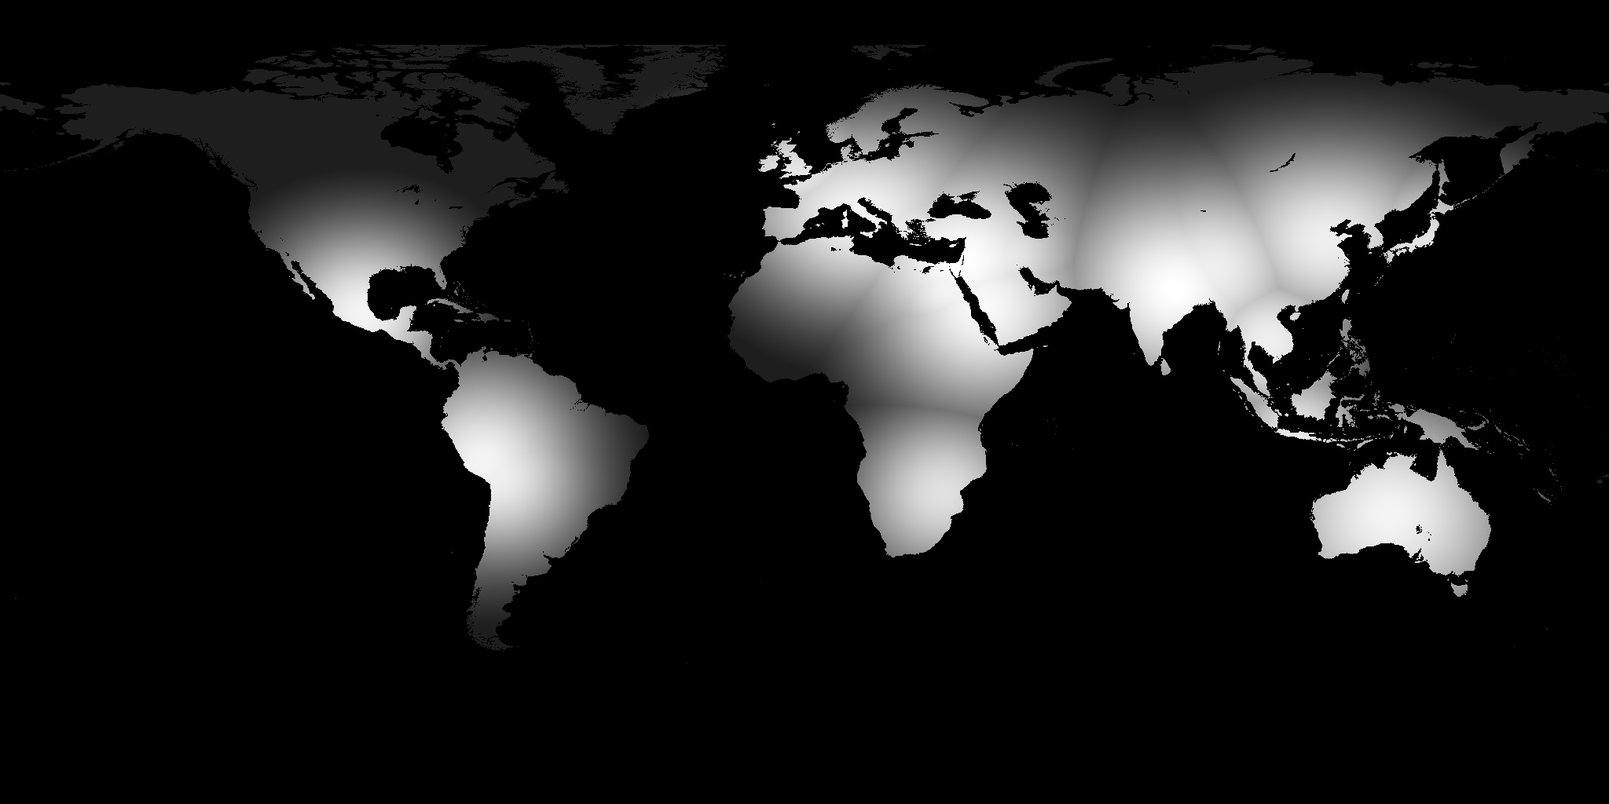
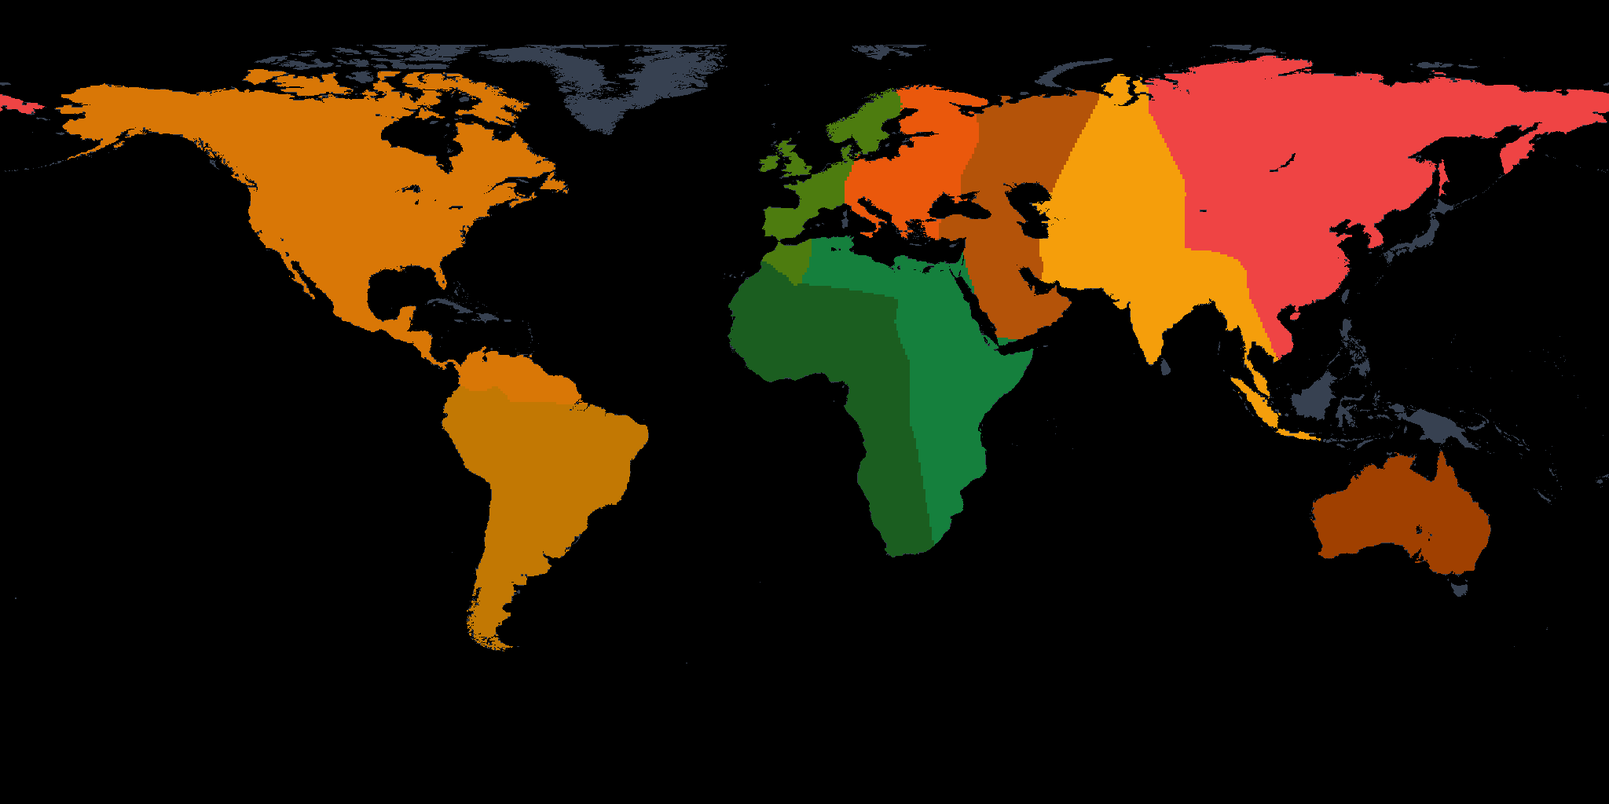
Implement navigable river corridors and authentic discrete rituals tensor with orographic propagation

Changed region(s): [[0.4375, 0.0312, 1.0, 0.7188], [0.0, 0.0312, 0.4688, 0.8125]]

diff --git a/src/main/java/org/ether/society/data/HistoricalMapGenerator.java b/src/main/java/org/ether/society/data/HistoricalMapGenerator.java
@@ -2109,6 +2109,15 @@ public class HistoricalMapGenerator {
         0x9B59B6  // Clade 5: Tropical Forest & Bamboo Bands (#9B59B6)
     };
 
+    private static final int[] COLORS_RITUALS_100K = {
+        0x10B981, // Clade 0: Sapiens Pan-African Symbolic Ochre & Shell Ornamentation (#10B981)
+        0xF59E0B, // Clade 1: Pioneer Coastal Symbolic Caches (#F59E0B)
+        0x3B82F6, // Clade 2: Neanderthal Intentional Burials & Raptor Claw Cults (#3B82F6)
+        0x2563EB, // Clade 3: Shanidar Flower Burial Tradition (#2563EB)
+        0xD97706, // Clade 4: Denisovan Altai Chloritolite Jewelry & Bone Carving (#D97706)
+        0x8B5CF6  // Clade 5: Archaic Asian Megafauna & Ochre Traditions (#8B5CF6)
+    };
+
     public static int blendCladeRgb(double[] w, int[] cladeColors, double occWeight) {
         if (w == null || occWeight <= 0.001) return 0x000000;
         double r = 0.0, g = 0.0, b = 0.0;
@@ -2746,109 +2755,146 @@ public class HistoricalMapGenerator {
             }
         }
 
-        List<double[]> ritualCenters = new ArrayList<>();
+        // 2. Handle -100,000 BP paleolithic tier via hominid clade weights
         if (year <= -70000L) {
-            // Handled separately below via Paleolithic traits
-        } else if (year <= -10500L) {
-            // -10,900 BP: Natufian mortars/skulls, Magdalenian cave sanctuaries, Clovis ochre caches
-            ritualCenters.add(new double[]{35.58, 33.08, 210.0, 6.0}); // Ain Mallaha Natufian burials
-            ritualCenters.add(new double[]{35.22, 32.92, 195.0, 6.0}); // Hayonim Cave
-            ritualCenters.add(new double[]{1.0, 45.0, 190.0, 8.0});    // Lascaux / Laugerie late sanctuary
-            ritualCenters.add(new double[]{-4.5, 43.4, 185.0, 8.0});   // Altamira Late Magdalenian
-            ritualCenters.add(new double[]{-103.3, 34.3, 160.0, 10.0});// Clovis Anzick / Blackwater red ochre caches
-            ritualCenters.add(new double[]{-73.2, -41.5, 150.0, 8.0}); // Monte Verde hearths
-        } else if (year <= -9000L) {
-            // -10,000 BP: Göbekli Tepe & Karahan Tepe T-shaped pillar megalithic sanctuaries
-            ritualCenters.add(new double[]{38.92, 37.22, 255.0, 8.0}); // Göbekli Tepe Megalithic Sanctuary Core
-            ritualCenters.add(new double[]{39.50, 37.05, 240.0, 8.0}); // Karahan Tepe
-            ritualCenters.add(new double[]{35.44, 31.87, 220.0, 7.0}); // Jericho Plastered Skull Sanctuary
-            ritualCenters.add(new double[]{38.20, 36.40, 210.0, 7.0}); // Jerf el Ahmar Communal Rotunda
-            ritualCenters.add(new double[]{22.0, 44.5, 200.0, 8.0});   // Lepenski Vir Fish-God Shrines
-            ritualCenters.add(new double[]{113.6, 34.4, 180.0, 10.0}); // Peiligang ancestral burials
-        } else if (year <= -7000L) {
-            // -8,000 BP: Çatalhöyük Bull Shrines, Nabta Playa Megalithic Calendar, Jiahu Flutes
-            ritualCenters.add(new double[]{32.83, 37.67, 255.0, 9.0}); // Çatalhöyük Bucrania & Goddess Shrines
-            ritualCenters.add(new double[]{30.58, 22.53, 245.0, 9.0}); // Nabta Playa Megalithic Astronomical Stone Circle
-            ritualCenters.add(new double[]{113.6, 33.6, 230.0, 9.0});  // Jiahu Sacred Crane Bone Flutes & Burials
-            ritualCenters.add(new double[]{35.95, 31.98, 220.0, 7.0}); // Ain Ghazal Plaster Statues
-            ritualCenters.add(new double[]{22.8, 39.3, 210.0, 8.0});   // Sesklo Goddess Figurines
-            ritualCenters.add(new double[]{68.05, 29.28, 205.0, 8.0}); // Mehrgarh Terracotta Figurines
-        } else if (year <= -4500L) {
-            // -6,000 BP: Eridu Temple VII, Vinča Figurines, Carnac Megalithic Alignments
-            ritualCenters.add(new double[]{45.99, 30.82, 255.0, 10.0});// Eridu Enki Temple / Proto-Ziggurat
-            ritualCenters.add(new double[]{20.62, 44.76, 240.0, 9.0}); // Vinča Anthropomorphic Cult Statues
-            ritualCenters.add(new double[]{-3.00, 47.60, 245.0, 9.0}); // Carnac Megalithic Alignments & Bougon Tumulus
-            ritualCenters.add(new double[]{109.06, 34.27, 235.0, 9.0});// Yangshao Banpo Mortuary Complexes
-            ritualCenters.add(new double[]{119.50, 41.30, 240.0, 8.0});// Hongshan Niuheliang Goddess Temple & Jade Altars
-            ritualCenters.add(new double[]{31.37, 26.99, 220.0, 8.0}); // Badari Cosmetic Palettes & Burials
-        } else {
-            ritualCenters.add(new double[]{35.2, 31.8, 255.0, 20.0});  // Jerusalem
-            ritualCenters.add(new double[]{39.8, 21.4, 250.0, 20.0});  // Mecca
-            ritualCenters.add(new double[]{12.5, 41.9, 245.0, 18.0});  // Rome / Vatican
-            ritualCenters.add(new double[]{83.0, 25.3, 255.0, 20.0});  // Varanasi / Ganges
-            ritualCenters.add(new double[]{91.1, 29.6, 240.0, 18.0});  // Lhasa / Mount Kailash
-            ritualCenters.add(new double[]{117.1, 36.3, 240.0, 18.0}); // Mount Tai / Qufu
-            ritualCenters.add(new double[]{138.7, 35.4, 230.0, 15.0}); // Mount Fuji / Ise
-            ritualCenters.add(new double[]{32.6, 25.7, 245.0, 14.0});  // Karnak / Luxor
-            ritualCenters.add(new double[]{44.4, 32.5, 235.0, 14.0});  // Babylon / Eridu
-            ritualCenters.add(new double[]{103.9, 13.4, 240.0, 16.0}); // Angkor Wat
-            ritualCenters.add(new double[]{110.2, -7.6, 235.0, 14.0}); // Borobudur
-            ritualCenters.add(new double[]{131.0, -25.3, 245.0, 22.0});// Uluru / Kata Tjuta
-            ritualCenters.add(new double[]{-98.8, 19.7, 245.0, 16.0}); // Teotihuacan / Cholula
-            ritualCenters.add(new double[]{-71.9, -13.5, 245.0, 18.0});// Coricancha / Cuzco
-            ritualCenters.add(new double[]{-68.7, -16.5, 240.0, 16.0});// Tiwanaku
-            ritualCenters.add(new double[]{-1.8, 51.2, 230.0, 12.0});  // Stonehenge
-            ritualCenters.add(new double[]{22.5, 38.5, 235.0, 12.0});  // Delphi
-            ritualCenters.add(new double[]{30.9, -20.3, 225.0, 16.0}); // Great Zimbabwe
+            for (int y = 0; y < HEIGHT; y++) {
+                double lat = 90.0 - (y + 0.5) / HEIGHT * 180.0;
+                for (int x = 0; x < WIDTH; x++) {
+                    double lon = -180.0 + (x + 0.5) / WIDTH * 360.0;
+                    int mx = Math.clamp((int) ((x + 0.5) * (mask != null ? mask.getWidth() : WIDTH) / WIDTH), 0, (mask != null ? mask.getWidth() : WIDTH) - 1);
+                    int my = Math.clamp((int) ((y + 0.5) * (mask != null ? mask.getHeight() : HEIGHT) / HEIGHT), 0, (mask != null ? mask.getHeight() : HEIGHT) - 1);
+                    int land = (mask != null) ? mask.getRaster().getSample(mx, my, 0) : 255;
+                    double occWeight = getHomininOccupancyWeight(lon, lat, year);
+                    if (land == 0 || occWeight <= 0.001) {
+                        img.setRGB(x, y, 0x000000);
+                        continue;
+                    }
+                    double[] w = computeHomininCladeWeights(lon, lat);
+                    int rgb = blendCladeRgb(w, COLORS_RITUALS_100K, occWeight);
+                    img.setRGB(x, y, rgb);
+                }
+            }
+            return applyAltimetryCoastlineMask(img);
         }
 
+        // 3. Authentic Discrete Categorization & SESHAT Sacred Traditions with Orographic Propagation
+        List<OrographicGlottologPropagator.CulturalSeed> ritualSeeds = new ArrayList<>();
+
+        if (year <= -10500L) {
+            // Upper Paleolithic & Younger Dryas Cave Sanctuaries & Burials
+            ritualSeeds.add(new OrographicGlottologPropagator.CulturalSeed(-4.5, 43.4, 0x4D7C0F, 1.2, "Franco-Cantabrian Cave Art Cults"));
+            ritualSeeds.add(new OrographicGlottologPropagator.CulturalSeed(35.58, 33.08, 0xB45309, 1.0, "Natufian Skull Burials"));
+            ritualSeeds.add(new OrographicGlottologPropagator.CulturalSeed(39.0, 51.4, 0x8B5CF6, 1.3, "Kostenki Mammoth Shrines"));
+            ritualSeeds.add(new OrographicGlottologPropagator.CulturalSeed(102.8, 52.8, 0xD97706, 1.4, "Siberian Ochre & Chloritolite Cults"));
+            ritualSeeds.add(new OrographicGlottologPropagator.CulturalSeed(-103.3, 34.3, 0xC27803, 1.5, "Clovis Red Ochre Traditions"));
+            ritualSeeds.add(new OrographicGlottologPropagator.CulturalSeed(-73.2, -41.5, 0x2E7D32, 1.4, "Andean Paleo Hearth Cults"));
+            ritualSeeds.add(new OrographicGlottologPropagator.CulturalSeed(133.0, -25.0, 0xA04000, 1.6, "Sahul Dreamtime Songlines"));
+            ritualSeeds.add(new OrographicGlottologPropagator.CulturalSeed(21.2, -34.4, 0x10B981, 1.5, "African LSA Symbolic Caches"));
+            ritualSeeds.add(new OrographicGlottologPropagator.CulturalSeed(32.6, 24.1, 0x15803D, 1.1, "Nile Qadan Cemetery Tradition"));
+        } else if (year <= -7000L) {
+            // Early Neolithic / Göbekli Tepe / Çatalhöyük / Mehrgarh
+            ritualSeeds.add(new OrographicGlottologPropagator.CulturalSeed(38.92, 37.22, 0xEA580C, 1.2, "Göbekli Pillar Megalithic Shrines"));
+            ritualSeeds.add(new OrographicGlottologPropagator.CulturalSeed(32.83, 37.67, 0xEA580C, 1.1, "Çatalhöyük Bucrania Cults"));
+            ritualSeeds.add(new OrographicGlottologPropagator.CulturalSeed(35.44, 31.87, 0xB45309, 1.0, "Jericho Plastered Skull Sanctuary"));
+            ritualSeeds.add(new OrographicGlottologPropagator.CulturalSeed(22.0, 44.5, 0x4D7C0F, 1.1, "Lepenski Vir Fish-God Cults"));
+            ritualSeeds.add(new OrographicGlottologPropagator.CulturalSeed(113.6, 33.6, 0xEF4444, 1.3, "Jiahu Ancestral Bone Flute Cults"));
+            ritualSeeds.add(new OrographicGlottologPropagator.CulturalSeed(68.05, 29.28, 0xF59E0B, 1.2, "Mehrgarh Terracotta Goddess Traditions"));
+            ritualSeeds.add(new OrographicGlottologPropagator.CulturalSeed(30.58, 22.53, 0x15803D, 1.2, "Nabta Playa Megalithic Solar Alignments"));
+            ritualSeeds.add(new OrographicGlottologPropagator.CulturalSeed(-98.0, 19.0, 0xD97706, 1.4, "Mesoamerican Archaic Rituals"));
+            ritualSeeds.add(new OrographicGlottologPropagator.CulturalSeed(-77.0, -10.0, 0xC27803, 1.4, "Early Andean Hearth Shrines"));
+            ritualSeeds.add(new OrographicGlottologPropagator.CulturalSeed(133.0, -25.0, 0xA04000, 1.6, "Australian Dreamtime"));
+            ritualSeeds.add(new OrographicGlottologPropagator.CulturalSeed(8.0, 9.0, 0x1B5E20, 1.5, "West African Traditional Animism"));
+        } else if (year <= -4500L) {
+            // Late Neolithic / Chalcolithic / Eridu / Vinča / Carnac
+            ritualSeeds.add(new OrographicGlottologPropagator.CulturalSeed(45.99, 30.82, 0xB45309, 1.2, "Eridu Enki Temple & Proto-Ziggurats"));
+            ritualSeeds.add(new OrographicGlottologPropagator.CulturalSeed(31.37, 26.99, 0x15803D, 1.1, "Badari / Pre-Dynastic Egyptian Cults"));
+            ritualSeeds.add(new OrographicGlottologPropagator.CulturalSeed(20.62, 44.76, 0x4D7C0F, 1.2, "Vinča Anthropomorphic Shrines"));
+            ritualSeeds.add(new OrographicGlottologPropagator.CulturalSeed(-3.0, 47.6, 0x4D7C0F, 1.2, "Carnac Megalithic Alignments"));
+            ritualSeeds.add(new OrographicGlottologPropagator.CulturalSeed(109.06, 34.27, 0xEF4444, 1.3, "Yangshao Banpo Mortuary Complexes"));
+            ritualSeeds.add(new OrographicGlottologPropagator.CulturalSeed(68.05, 29.28, 0xF59E0B, 1.2, "Mehrgarh Proto-Indus Traditions"));
+            ritualSeeds.add(new OrographicGlottologPropagator.CulturalSeed(-98.0, 19.0, 0xD97706, 1.4, "Mesoamerican Ceremonial Centers"));
+            ritualSeeds.add(new OrographicGlottologPropagator.CulturalSeed(-77.0, -10.0, 0xC27803, 1.4, "Caral-Supe Sacred Plazas"));
+            ritualSeeds.add(new OrographicGlottologPropagator.CulturalSeed(133.0, -25.0, 0xA04000, 1.6, "Australian Dreamtime"));
+            ritualSeeds.add(new OrographicGlottologPropagator.CulturalSeed(8.0, 9.0, 0x1B5E20, 1.5, "African Ancestral Systems"));
+        } else if (year <= -500L) {
+            // Bronze & Early Iron Age Empires (Sumer, Egypt, Shang, Vedic)
+            ritualSeeds.add(new OrographicGlottologPropagator.CulturalSeed(44.4, 32.5, 0xB45309, 1.3, "Mesopotamian Ziggurat Pantheon"));
+            ritualSeeds.add(new OrographicGlottologPropagator.CulturalSeed(32.6, 25.7, 0x15803D, 1.3, "Egyptian Amun-Ra & Osiris Religion"));
+            ritualSeeds.add(new OrographicGlottologPropagator.CulturalSeed(22.5, 38.5, 0xEA580C, 1.2, "Aegean & Mycenaean Olympian Cult"));
+            ritualSeeds.add(new OrographicGlottologPropagator.CulturalSeed(83.0, 25.3, 0xF59E0B, 1.4, "Vedic Sacrificial Traditions"));
+            ritualSeeds.add(new OrographicGlottologPropagator.CulturalSeed(114.3, 36.1, 0xEF4444, 1.4, "Shang & Zhou Ancestral Oracle Cult"));
+            ritualSeeds.add(new OrographicGlottologPropagator.CulturalSeed(-1.8, 51.2, 0x4D7C0F, 1.2, "Stonehenge Atlantic Sacred Complex"));
+            ritualSeeds.add(new OrographicGlottologPropagator.CulturalSeed(-94.8, 17.8, 0xD97706, 1.3, "Olmec Jaguar & Sacred Centers"));
+            ritualSeeds.add(new OrographicGlottologPropagator.CulturalSeed(-77.2, -9.6, 0xC27803, 1.3, "Chavin Staff God Traditions"));
+            ritualSeeds.add(new OrographicGlottologPropagator.CulturalSeed(8.5, 9.5, 0x1B5E20, 1.5, "Sub-Saharan Ancestral Traditions"));
+            ritualSeeds.add(new OrographicGlottologPropagator.CulturalSeed(133.0, -25.0, 0xA04000, 1.6, "Australian Aboriginal Songlines"));
+        } else if (year <= 500L) {
+            // Classical Axial Age (Rome, Han, Maurya, Parthia)
+            ritualSeeds.add(new OrographicGlottologPropagator.CulturalSeed(12.5, 41.9, 0xEA580C, 1.4, "Greco-Roman Civic Polytheism"));
+            ritualSeeds.add(new OrographicGlottologPropagator.CulturalSeed(23.7, 37.9, 0xEA580C, 1.2, "Hellenistic Polytheism"));
+            ritualSeeds.add(new OrographicGlottologPropagator.CulturalSeed(35.2, 31.8, 0x2563EB, 0.9, "Judaism & Second Temple Cult"));
+            ritualSeeds.add(new OrographicGlottologPropagator.CulturalSeed(44.4, 33.1, 0x0891B2, 1.3, "Zoroastrianism & Mazdeism"));
+            ritualSeeds.add(new OrographicGlottologPropagator.CulturalSeed(85.1, 25.6, 0xF59E0B, 1.4, "Brahmanism & Classical Hinduism"));
+            ritualSeeds.add(new OrographicGlottologPropagator.CulturalSeed(80.4, 8.3, 0xEAB308, 1.1, "Theravada Buddhism"));
+            ritualSeeds.add(new OrographicGlottologPropagator.CulturalSeed(108.9, 34.3, 0xEF4444, 1.5, "Confucianism & Daoism"));
+            ritualSeeds.add(new OrographicGlottologPropagator.CulturalSeed(29.9, 31.2, 0x15803D, 1.1, "Kemetic & Greco-Egyptian Serapis"));
+            ritualSeeds.add(new OrographicGlottologPropagator.CulturalSeed(-2.0, 48.0, 0x4D7C0F, 1.2, "Celtic Druidic Polytheism"));
+            ritualSeeds.add(new OrographicGlottologPropagator.CulturalSeed(10.0, 53.0, 0x3B82F6, 1.3, "Germanic & Norse Polytheism"));
+            ritualSeeds.add(new OrographicGlottologPropagator.CulturalSeed(30.0, 50.0, 0x37474F, 1.4, "Slavic & Steppe Tengrism"));
+            ritualSeeds.add(new OrographicGlottologPropagator.CulturalSeed(-98.8, 19.7, 0xD97706, 1.3, "Teotihuacan Cosmic Religion"));
+            ritualSeeds.add(new OrographicGlottologPropagator.CulturalSeed(-75.0, -14.0, 0xC27803, 1.3, "Andean Moche & Nazca Cults"));
+            ritualSeeds.add(new OrographicGlottologPropagator.CulturalSeed(8.5, 9.5, 0x1B5E20, 1.5, "Sub-Saharan Ancestral Systems"));
+            ritualSeeds.add(new OrographicGlottologPropagator.CulturalSeed(133.0, -25.0, 0xA04000, 1.6, "Australian Dreamtime"));
+        } else if (year <= 1491L) {
+            // Medieval Era (Catholicism, Orthodoxy, Islam, Hinduism, Buddhism)
+            ritualSeeds.add(new OrographicGlottologPropagator.CulturalSeed(12.5, 41.9, 0xEC4899, 1.5, "Roman Catholicism"));
+            ritualSeeds.add(new OrographicGlottologPropagator.CulturalSeed(28.9, 41.0, 0x8B5CF6, 1.4, "Eastern Orthodoxy"));
+            ritualSeeds.add(new OrographicGlottologPropagator.CulturalSeed(30.5, 50.4, 0x8B5CF6, 1.4, "Rus Orthodoxy"));
+            ritualSeeds.add(new OrographicGlottologPropagator.CulturalSeed(39.8, 21.4, 0x10B981, 1.6, "Sunni Islam"));
+            ritualSeeds.add(new OrographicGlottologPropagator.CulturalSeed(44.3, 32.0, 0x0D9488, 1.3, "Shia Islam"));
+            ritualSeeds.add(new OrographicGlottologPropagator.CulturalSeed(-4.8, 37.9, 0x10B981, 1.1, "Al-Andalus Islam"));
+            ritualSeeds.add(new OrographicGlottologPropagator.CulturalSeed(83.0, 25.3, 0xF59E0B, 1.5, "Hinduism"));
+            ritualSeeds.add(new OrographicGlottologPropagator.CulturalSeed(103.9, 13.4, 0xEAB308, 1.3, "Theravada Buddhism"));
+            ritualSeeds.add(new OrographicGlottologPropagator.CulturalSeed(114.3, 34.7, 0xEF4444, 1.5, "Mahayana & Neo-Confucianism"));
+            ritualSeeds.add(new OrographicGlottologPropagator.CulturalSeed(135.7, 35.0, 0xF43F5E, 1.1, "Shinto & Buddhist Syncretism"));
+            ritualSeeds.add(new OrographicGlottologPropagator.CulturalSeed(91.1, 29.6, 0xD97706, 1.3, "Vajrayana Buddhism"));
+            ritualSeeds.add(new OrographicGlottologPropagator.CulturalSeed(-99.1, 19.4, 0xD97706, 1.3, "Aztec & Maya Cosmic Religions"));
+            ritualSeeds.add(new OrographicGlottologPropagator.CulturalSeed(-71.9, -13.5, 0xC27803, 1.3, "Inca Inti Sun Religion"));
+            ritualSeeds.add(new OrographicGlottologPropagator.CulturalSeed(-3.0, 16.8, 0x10B981, 1.3, "West African Islam"));
+            ritualSeeds.add(new OrographicGlottologPropagator.CulturalSeed(8.5, 9.5, 0x1B5E20, 1.5, "African Traditional Religions"));
+            ritualSeeds.add(new OrographicGlottologPropagator.CulturalSeed(133.0, -25.0, 0xA04000, 1.6, "Australian Dreamtime"));
+        } else {
+            // Early Modern & Global Age of Faiths (1492-1900)
+            ritualSeeds.add(new OrographicGlottologPropagator.CulturalSeed(12.5, 41.9, 0xEC4899, 1.5, "Roman Catholicism"));
+            ritualSeeds.add(new OrographicGlottologPropagator.CulturalSeed(-0.1, 51.5, 0x3B82F6, 1.3, "Protestantism"));
+            ritualSeeds.add(new OrographicGlottologPropagator.CulturalSeed(37.6, 55.7, 0x8B5CF6, 1.5, "Russian & Eastern Orthodoxy"));
+            ritualSeeds.add(new OrographicGlottologPropagator.CulturalSeed(39.8, 21.4, 0x10B981, 1.6, "Sunni Islam"));
+            ritualSeeds.add(new OrographicGlottologPropagator.CulturalSeed(51.4, 35.7, 0x0D9488, 1.4, "Shia Islam"));
+            ritualSeeds.add(new OrographicGlottologPropagator.CulturalSeed(83.0, 25.3, 0xF59E0B, 1.5, "Hinduism"));
+            ritualSeeds.add(new OrographicGlottologPropagator.CulturalSeed(100.5, 13.7, 0xEAB308, 1.3, "Theravada Buddhism"));
+            ritualSeeds.add(new OrographicGlottologPropagator.CulturalSeed(116.4, 39.9, 0xEF4444, 1.5, "Confucianism & Mahayana"));
+            ritualSeeds.add(new OrographicGlottologPropagator.CulturalSeed(139.7, 35.6, 0xF43F5E, 1.1, "Shintoism"));
+            ritualSeeds.add(new OrographicGlottologPropagator.CulturalSeed(91.1, 29.6, 0xD97706, 1.3, "Vajrayana Buddhism"));
+            ritualSeeds.add(new OrographicGlottologPropagator.CulturalSeed(-99.1, 19.4, 0xEC4899, 1.4, "Catholicism (Latin America)"));
+            ritualSeeds.add(new OrographicGlottologPropagator.CulturalSeed(-74.0, 40.7, 0x3B82F6, 1.3, "Protestantism (North America)"));
+            ritualSeeds.add(new OrographicGlottologPropagator.CulturalSeed(8.5, 9.5, 0x1B5E20, 1.5, "Sub-Saharan Traditional"));
+            ritualSeeds.add(new OrographicGlottologPropagator.CulturalSeed(133.0, -25.0, 0xA04000, 1.6, "Australian Dreamtime"));
+        }
+
+        BufferedImage ritImg = OrographicGlottologPropagator.propagateCulturalSeeds(ritualSeeds, WIDTH, HEIGHT, mask);
+
+        // Apply hominin occupancy filter and black out Antarctica
         for (int y = 0; y < HEIGHT; y++) {
             double lat = 90.0 - (y + 0.5) / HEIGHT * 180.0;
             for (int x = 0; x < WIDTH; x++) {
                 double lon = -180.0 + (x + 0.5) / WIDTH * 360.0;
-
-                int mx = Math.clamp((int) ((x + 0.5) * (mask != null ? mask.getWidth() : WIDTH) / WIDTH), 0, (mask != null ? mask.getWidth() : WIDTH) - 1);
-                int my = Math.clamp((int) ((y + 0.5) * (mask != null ? mask.getHeight() : HEIGHT) / HEIGHT), 0, (mask != null ? mask.getHeight() : HEIGHT) - 1);
-                int land = (mask != null) ? mask.getRaster().getSample(mx, my, 0) : 255;
                 double occWeight = getHomininOccupancyWeight(lon, lat, year);
-                if (land == 0 || occWeight <= 0.001) {
-                    img.setRGB(x, y, 0x000000);
-                    continue;
+                if (lat < -60.0 || occWeight <= 0.001) {
+                    ritImg.setRGB(x, y, 0x000000);
                 }
-
-                if (year <= -70000L) {
-                    double baseRitual = blendPaleoTraits(lon, lat, 55.0, 48.0, 38.0);
-                    double maxRitual = baseRitual;
-                    double[][] paleoSites = {
-                        {21.2, -34.4, 160.0, 10.0}, {22.1, -34.2, 155.0, 10.0}, {31.9, -27.0, 150.0, 10.0},
-                        {35.3, 32.7, 145.0, 8.0},   {-8.8, 31.6, 140.0, 8.0},   {-5.3, 36.1, 135.0, 8.0},
-                        {1.0, 45.0, 130.0, 8.0},    {15.8, 46.1, 125.0, 8.0},   {44.2, 36.8, 130.0, 8.0},
-                        {84.0, 51.4, 130.0, 8.0},   {102.8, 35.2, 120.0, 8.0}
-                    };
-                    for (double[] ss : paleoSites) {
-                        double d2 = distSq(lon, lat, ss[0], ss[1]);
-                        double sigma = ss[3];
-                        double val = ss[2] * Math.exp(-d2 / (2.0 * sigma * sigma));
-                        maxRitual = Math.max(maxRitual, val);
-                    }
-                    int gray = Math.clamp((int) (maxRitual * occWeight), 0, 255);
-                    img.setRGB(x, y, (gray << 16) | (gray << 8) | gray);
-                    continue;
-                }
-
-                double maxRitual = 30.0;
-                for (double[] ss : ritualCenters) {
-                    double d2 = distSq(lon, lat, ss[0], ss[1]);
-                    double sigma = ss[3];
-                    double val = ss[2] * Math.exp(-d2 / (2.0 * sigma * sigma));
-                    maxRitual = Math.max(maxRitual, val);
-                }
-
-                int gray = Math.clamp((int) (maxRitual * occWeight), 0, 255);
-                img.setRGB(x, y, (gray << 16) | (gray << 8) | gray);
             }
         }
-        return applyAltimetryCoastlineMask(img);
+        return applyAltimetryCoastlineMask(ritImg);
     }
 
     // --- 6. TECHNOLOGY & SUBSISTENCE TENSOR MAP ---
@@ -3131,8 +3177,45 @@ public class HistoricalMapGenerator {
             drawTradeRoute(g, new double[][]{{151.2, -33.8}, {145.0, -20.0}, {130.0, -5.0}, {115.0, 10.0}, {121.5, 31.2}}, new Color(30, 180, 210), 3.8); // Australia -> China (Iron Ore)
         }
 
+        // Draw Major Navigable River Trade Corridors (High Conductance Channels)
+        drawNavigableRiverCorridors(g, year);
+
         g.dispose();
         return img;
+    }
+
+    private static void drawNavigableRiverCorridors(Graphics2D g, long year) {
+        if (year <= -6000L) return; // Prior to Neolithic / Early Bronze, large-scale riverine trade arteries were nascent
+        Color riverCol = new Color(0, 210, 230); // Turquoise / Cyan navigable river artery
+
+        // 1. Nile Valley & Delta Artery (Aswan -> Luxor -> Memphis -> Alexandria)
+        drawTradeRoute(g, new double[][]{{32.9, 24.1}, {32.6, 25.7}, {31.3, 29.8}, {31.2, 31.2}}, riverCol, 3.2);
+
+        // 2. Tigris & Euphrates Mesopotamian Arteries (Cradle of Irrigation & Riverine Trade)
+        drawTradeRoute(g, new double[][]{{40.0, 37.9}, {43.1, 36.3}, {44.4, 33.3}, {47.8, 30.5}}, riverCol, 2.8);
+        drawTradeRoute(g, new double[][]{{38.5, 37.5}, {40.1, 35.3}, {42.4, 33.9}, {44.4, 32.5}, {47.8, 30.5}}, riverCol, 2.8);
+
+        // 3. Indus & Ganges-Brahmaputra South Asian Arteries
+        drawTradeRoute(g, new double[][]{{73.7, 33.7}, {71.5, 30.2}, {68.8, 27.5}, {68.1, 27.3}, {67.0, 24.8}}, riverCol, 2.8);
+        drawTradeRoute(g, new double[][]{{78.2, 29.9}, {81.8, 25.4}, {83.0, 25.3}, {85.1, 25.6}, {88.3, 22.5}, {90.4, 23.7}}, riverCol, 3.0);
+
+        // 4. Yellow River (Huang He) & Yangtze (Chang Jiang) Waterways
+        drawTradeRoute(g, new double[][]{{103.8, 36.0}, {108.9, 34.3}, {111.0, 34.8}, {114.3, 34.7}, {117.5, 37.5}}, riverCol, 2.8);
+        drawTradeRoute(g, new double[][]{{104.0, 28.7}, {106.5, 29.5}, {112.5, 30.3}, {114.3, 30.6}, {118.8, 32.0}, {121.5, 31.2}}, riverCol, 3.4);
+
+        // 5. European Riverine Arteries (Rhine, Danube & Rhône-Saône)
+        drawTradeRoute(g, new double[][]{{8.6, 47.6}, {7.6, 48.6}, {8.3, 50.0}, {6.9, 50.9}, {4.5, 51.9}}, riverCol, 2.6);
+        drawTradeRoute(g, new double[][]{{10.0, 48.5}, {12.1, 49.0}, {16.4, 48.2}, {19.0, 47.5}, {20.5, 44.8}, {24.0, 43.7}, {28.0, 45.2}}, riverCol, 3.0);
+        drawTradeRoute(g, new double[][]{{4.8, 47.3}, {4.8, 45.7}, {4.8, 43.9}, {5.4, 43.3}}, riverCol, 2.4);
+
+        // 6. Eastern European & Russian Waterways (Dnieper & Volga)
+        drawTradeRoute(g, new double[][]{{32.0, 54.8}, {30.5, 50.4}, {35.0, 47.8}, {32.6, 46.6}}, riverCol, 2.6);
+        drawTradeRoute(g, new double[][]{{33.0, 57.0}, {39.8, 57.6}, {49.1, 55.8}, {48.7, 51.5}, {44.5, 48.7}, {48.0, 46.3}}, riverCol, 3.0);
+
+        // 7. African & American Major Navigable Basins (Niger, Mississippi-Ohio, Amazon)
+        drawTradeRoute(g, new double[][]{{-10.7, 10.0}, {-8.3, 11.4}, {-3.0, 16.8}, {0.0, 16.2}, {6.5, 6.0}}, riverCol, 2.6);
+        drawTradeRoute(g, new double[][]{{-80.0, 40.4}, {-84.5, 39.1}, {-89.0, 37.0}, {-90.0, 35.0}, {-91.0, 32.5}, {-90.0, 29.9}}, riverCol, 3.0);
+        drawTradeRoute(g, new double[][]{{-73.2, -3.7}, {-60.0, -3.1}, {-54.7, -2.4}, {-50.0, -1.0}}, riverCol, 3.2);
     }
 
     private static void drawTradeRoute(Graphics2D g, double[][] coords, Color col, double strokeWidth) {
